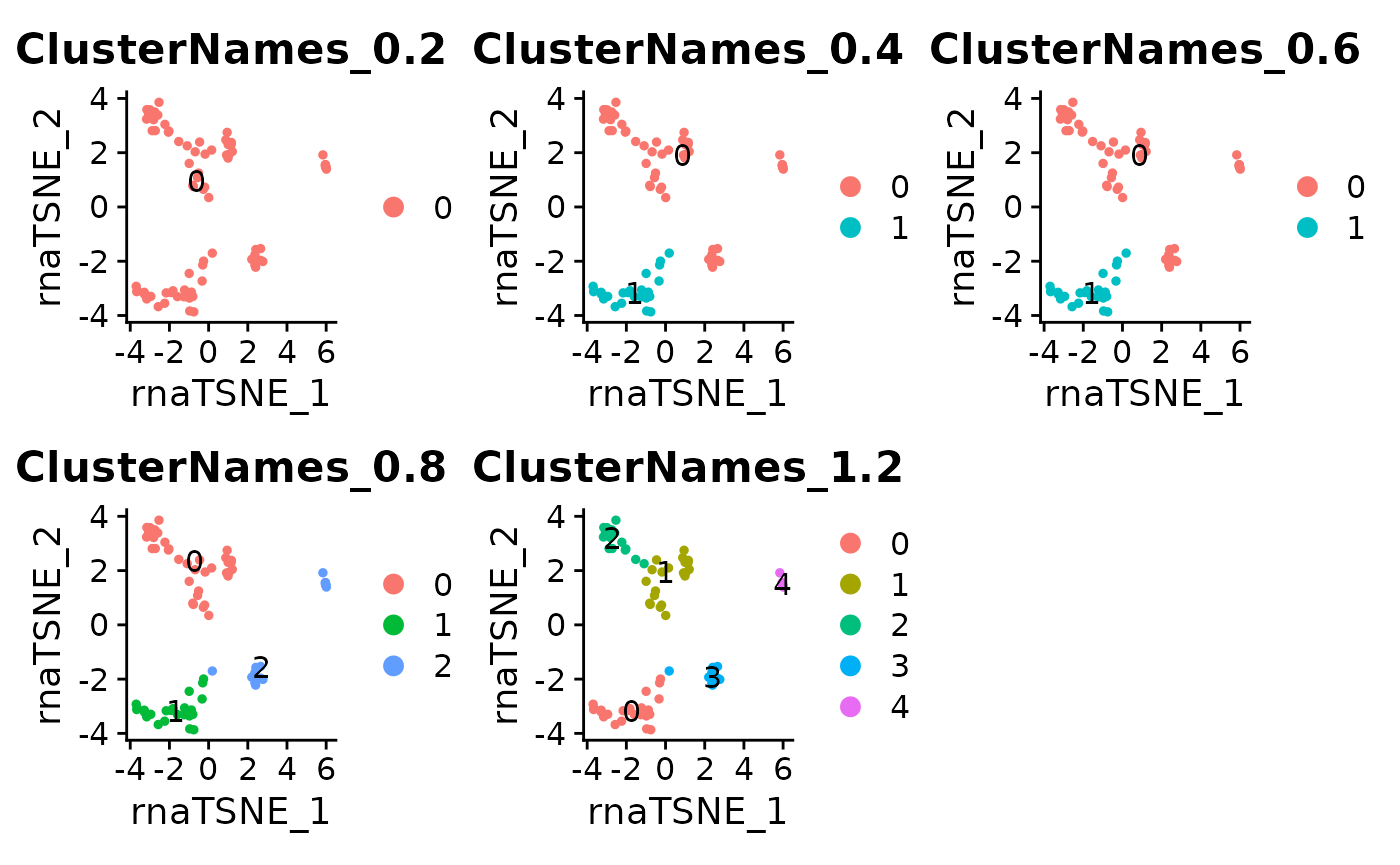
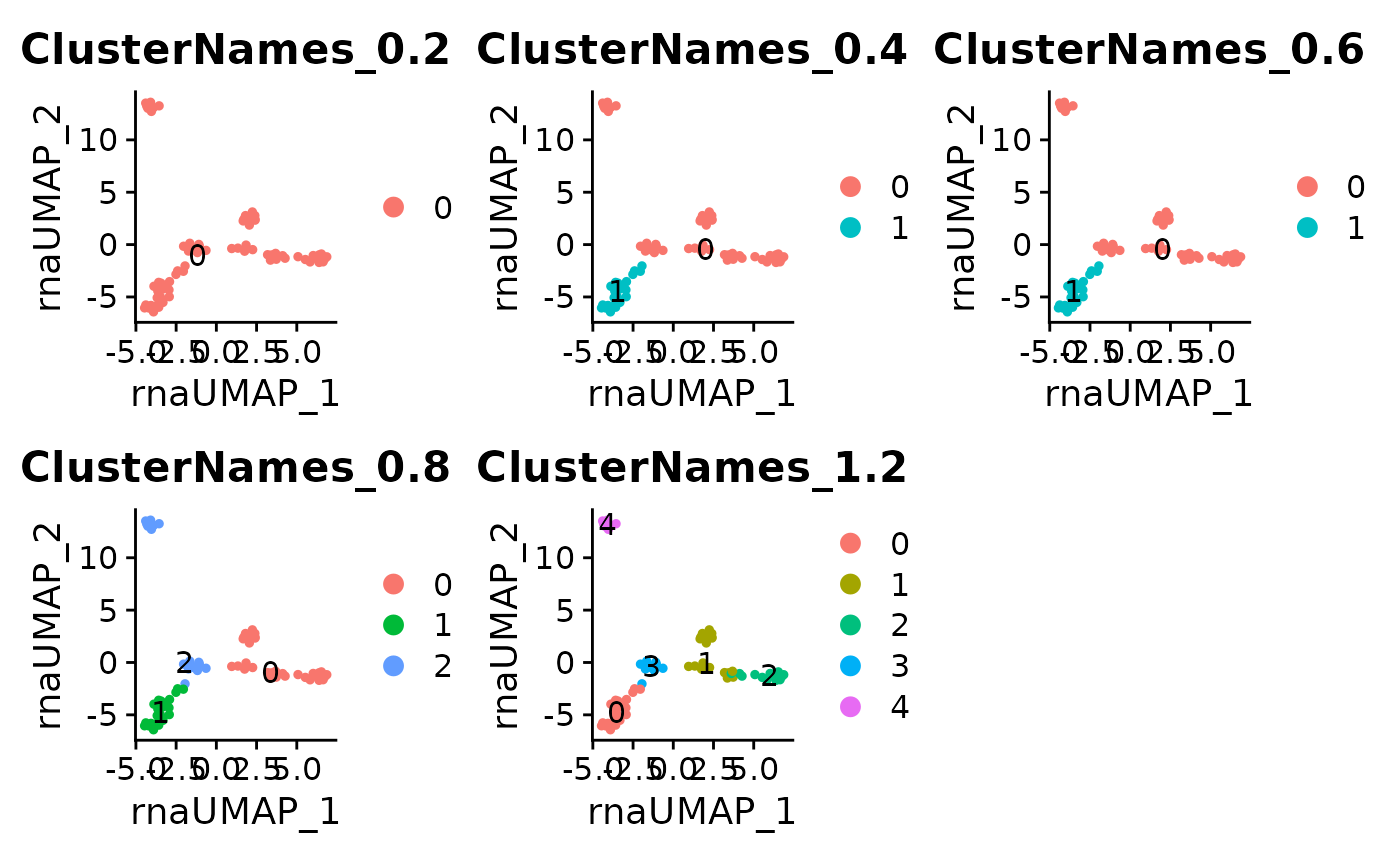
cli-154-1570

diff --git a/articles/CellMembrane-Tutorial.html b/articles/CellMembrane-Tutorial.html
@@ -82,7 +82,7 @@
                         <h4 data-toc-skip class="author">GW
 McElfresh</h4>
             
-            <h4 data-toc-skip class="date">2024-06-06</h4>
+            <h4 data-toc-skip class="date">2024-06-13</h4>
       
       <small class="dont-index">Source: <a href="https://github.com/BimberLabInternal/CellMembrane/blob/HEAD/vignettes/CellMembrane-Tutorial.Rmd" class="external-link"><code>vignettes/CellMembrane-Tutorial.Rmd</code></a></small>
       <div class="hidden name"><code>CellMembrane-Tutorial.Rmd</code></div>
@@ -288,15 +288,13 @@ high-level data summarizations.</p>
 <pre><code><span><span class="co">## [1] "min.y greater than smallest y"</span></span></code></pre>
 <pre><code><span><span class="co">## [1] "Inferred elbow: 7"</span></span>
 <span><span class="co">## [1] "Selected dimsToUse: 1:7"</span></span>
-<span><span class="co">## [1] "Perplexity is too large for the number of samples: 80"</span></span>
-<span><span class="co">## [1] "lowering from 30 to: 26"</span></span>
 <span><span class="co">## [1] "Setting RunUMAP arg: umap.method to uwot"</span></span>
 <span><span class="co">## [1] "Setting RunUMAP arg: seed.use to 1234"</span></span>
 <span><span class="co">## [1] "Setting RunUMAP arg: densmap to FALSE"</span></span></code></pre>
 <pre><code><span><span class="co">## Warning: The default method for RunUMAP has changed from calling Python UMAP via reticulate to the R-native UWOT using the cosine metric</span></span>
 <span><span class="co">## To use Python UMAP via reticulate, set umap.method to 'umap-learn' and metric to 'correlation'</span></span>
 <span><span class="co">## This message will be shown once per session</span></span></code></pre>
-<p><img src="CellMembrane-Tutorial_files/figure-html/FindClustersAndDimRedux-1.png" width="700"><img src="CellMembrane-Tutorial_files/figure-html/FindClustersAndDimRedux-2.png" width="700"><img src="CellMembrane-Tutorial_files/figure-html/FindClustersAndDimRedux-3.png" width="700"></p>
+<p><img src="CellMembrane-Tutorial_files/figure-html/FindClustersAndDimRedux-1.png" width="700"><img src="CellMembrane-Tutorial_files/figure-html/FindClustersAndDimRedux-2.png" width="700"></p>
 </div>
 </div>
 <div class="section level2">

diff --git a/reference/FindClustersAndDimRedux.html b/reference/FindClustersAndDimRedux.html
@@ -78,6 +78,7 @@
 <span>  tsne.perplexity <span class="op">=</span> <span class="fl">30</span>,</span>
 <span>  umap.densmap <span class="op">=</span> <span class="cn">FALSE</span>,</span>
 <span>  clusterResolutions <span class="op">=</span> <span class="fu"><a href="https://rdrr.io/r/base/c.html" class="external-link">c</a></span><span class="op">(</span><span class="fl">0.2</span>, <span class="fl">0.4</span>, <span class="fl">0.6</span>, <span class="fl">0.8</span>, <span class="fl">1.2</span><span class="op">)</span>,</span>
+<span>  runTSNE <span class="op">=</span> <span class="cn">FALSE</span>,</span>
 <span>  useLeiden <span class="op">=</span> <span class="cn">FALSE</span></span>
 <span><span class="op">)</span></span></code></pre></div>
     </div>
@@ -138,6 +139,10 @@
 
 <dt>clusterResolutions</dt>
 <dd><p>A vector of clustering resolutions, default is (0.2, 0.4, 0.6, 0.8, 1.2).</p></dd>
+
+
+<dt>runTSNE</dt>
+<dd><p>If true, tSNE will be run. The default is UMAP alone.</p></dd>
 
 
 <dt>useLeiden</dt>

diff --git a/articles/Pseudobulking-and-Filtered-Contrasts.html b/articles/Pseudobulking-and-Filtered-Contrasts.html
@@ -82,7 +82,7 @@
                         <h4 data-toc-skip class="author">GW
 McElfresh</h4>
             
-            <h4 data-toc-skip class="date">2024-06-06</h4>
+            <h4 data-toc-skip class="date">2024-06-13</h4>
       
       <small class="dont-index">Source: <a href="https://github.com/BimberLabInternal/CellMembrane/blob/HEAD/vignettes/Pseudobulking-and-Filtered-Contrasts.Rmd" class="external-link"><code>vignettes/Pseudobulking-and-Filtered-Contrasts.Rmd</code></a></small>
       <div class="hidden name"><code>Pseudobulking-and-Filtered-Contrasts.Rmd</code></div>
